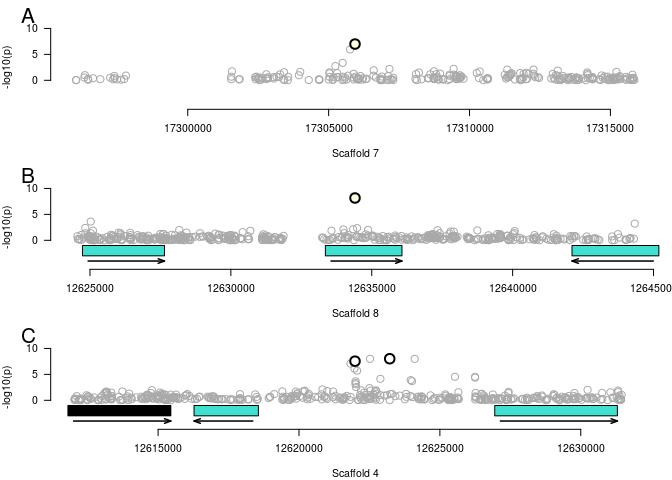
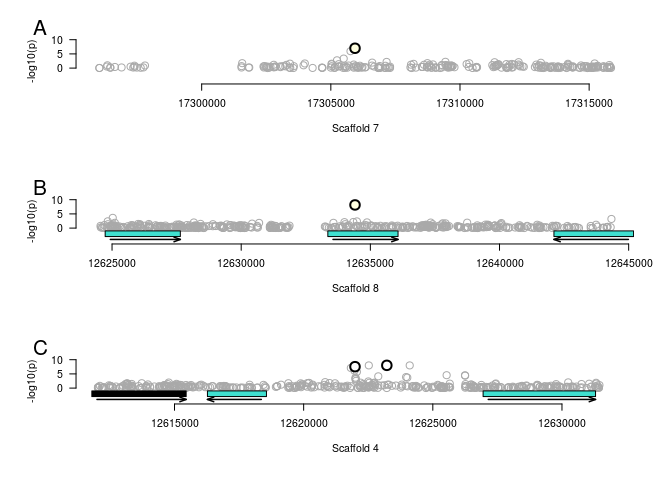
final edits

diff --git a/wgcna.md b/wgcna.md
@@ -11,30 +11,45 @@ output:
 
 ### Adjusted expression data for batch effect (collection timing)
 
+
 ```r
 myexp = read.table('data/all.med.min5', header=T)
-myexp0 = as.data.frame(t(myexp[,-1]))
-names(myexp0) = myexp$pac
+myexp0 = as.data.frame(t(myexp[,-1]))[-18806] ##also removing the "not_aligned"
+names(myexp0) = myexp$pac[-18806]
 myexp0$RNA = sapply(row.names(myexp0), function(x){substr(x,2,1000)}) ##add in a column with the RNA name
 myexp0$RNA[49] <- '157all' #slightly mismatched names
 myexp0$RNA[53] <- '161A'
 
 
 ## batch effects
-coltiming = read.table('data/coltiming', stringsAsFactors = F, header=T)
-mymer = dplyr::inner_join(coltiming, myexp0, by="RNA")
+#coltiming = read.table('data/coltiming', stringsAsFactors = F, header=T)
+coltiming = read.table('data/coltiming2.txt', stringsAsFactors = F, header=T)
+coltiming$ID = as.character(coltiming$ID)
+myexp0$ID = sapply(row.names(myexp0), function(x){substr(x,2,nchar(x)-1)}) ##add in a column with the RNA name
+
+#mymer = dplyr::inner_join(coltiming, myexp0, by="RNA")
+mymer = dplyr::inner_join(coltiming, myexp0, by="ID")
+
+##get the right IDs
+myID = read.table('data/id-list', header=T, stringsAsFactors = F)
+myID$ID = as.character(myID$DNA_short.name)
+mymer1 = dplyr::inner_join(myID, mymer, by ='ID')
 
 ## just the 146 individuals
 my146 = read.table('data/146_DNA_names_forplink', header=F, stringsAsFactors = F)
-mymer2 = dplyr::inner_join(my146, mymer, by = c('V2'='DNA_vcfname'))
+mymer2 = dplyr::inner_join(my146, mymer1, by = c('V2'='DNA_vcfname'))
 
-write.table(mymer2$V2, file="data/wgcna-files/mycb-names")
+##remove the one that's missing time info
+mymer2 = mymer2[-141,]
+
+#write.table(mymer2$V2, file="data/wgcna-files/mycb-names")
 
 # adjust for batch effects
 #mycb = ComBat(dat = t(mymer2[,-c(1:5)]), batch = mymer2$timeindex)
 
 #save(mycb, file = "data/wgcna-files/combatOutput.rda")
 ```
+
 
 ### Ran WGCNA on HPCC. Code is below:
 
@@ -108,8 +123,6 @@ write.csv(conScaled_EM, file = "../data/wgcna-files/conScaled_EM.csv")
 ```
 
 
-
-
 ###Looking at the modules
 
 ```r
@@ -167,7 +180,7 @@ plotDendroAndColors(geneTree, moduleColors, "Merged modules",
                      main = "Gene dendrogram and module colors")
 ```
 
-![](wgcna_files/figure-html/unnamed-chunk-4-1.png)<!-- -->
+![](wgcna_files/figure-html/unnamed-chunk-3-1.png)<!-- -->
 
 ```r
 ##histograms of the distributions
@@ -182,7 +195,7 @@ for (i in seq(16)) {
   }
 ```
 
-![](wgcna_files/figure-html/unnamed-chunk-4-2.png)<!-- -->
+![](wgcna_files/figure-html/unnamed-chunk-3-2.png)<!-- -->
 
 ```r
 #dev.off()
@@ -197,7 +210,7 @@ axis(2, las=2, cex.axis=1.5)
 axis(1, at = test, las=2, labels = names(moduleCounts))
 ```
 
-![](wgcna_files/figure-html/unnamed-chunk-4-3.png)<!-- -->
+![](wgcna_files/figure-html/unnamed-chunk-3-3.png)<!-- -->
 
 ```r
 moduleCounts
@@ -220,10 +233,11 @@ moduleCounts
 qn <- function(x){qqnorm(x, plot.it=FALSE)$x}
 nEigens = data.frame(apply(MEs, 2,qn))
 nEigens$id = mymer2$V2
+nEigens$DNA_short.name = as.character(mymer2$DNA_short.name)
 
 
 ##Correlated with collection timing?
-tmer = dplyr::inner_join(nEigens, coltiming, by = c('id' = 'DNA_vcfname'))
+tmer = dplyr::inner_join(nEigens, coltiming, by = c('DNA_short.name'="ID"))
 par(mfrow=c(4,4), mar = c(5,3,1,1))
 for (i in seq(16)) {
    plot(tmer$timeindex,tmer[,i], main="", ylab = "", xlab = "timing", bg = cols[i], pch = 21,yaxt="n", xaxt = "n", bty="n")
@@ -235,7 +249,7 @@ for (i in seq(16)) {
   }
 ```
 
-![](wgcna_files/figure-html/unnamed-chunk-4-4.png)<!-- -->
+![](wgcna_files/figure-html/unnamed-chunk-3-4.png)<!-- -->
 
 ```r
 sapply(1:16, function(x){
@@ -256,17 +270,17 @@ phenos = read.table('data/phenotypes_NA.txt', header=T, stringsAsFactors = F)
 pmer = dplyr::left_join(tmer, phenos, by = c('id'='IID'))
 
 ##bolting
-par(mfrow=c(4,4), mar = c(5,3,1,1))
+par(mfrow=c(4,4), mar = c(4,4,1,1))
 for (i in seq(16)) {
-   plot(pmer[,i], pmer$bolt, main="", ylab = "bolt", xlab = "module expression", bg = cols[i], pch = 21,yaxt="n", xaxt = "n", bty="n")
+   plot(pmer[,i], pmer$bolt, main="", ylab = "days to bolt", xlab = paste(cols[i],"expression"), bg = cols[i], pch = 21,yaxt="n", xaxt = "n", bty="n", ylim = c(30,75))
   myl = lm(pmer$bolt ~ pmer[,i])
-  if(summary(myl)$coefficients[2,4]<0.05/16){abline(myl)}
+  if(summary(myl)$coefficients[2,4]<0.05/16){abline(myl, lwd=2)}
     axis(1)
   axis(2)
   }
 ```
 
-![](wgcna_files/figure-html/unnamed-chunk-4-5.png)<!-- -->
+![](wgcna_files/figure-html/unnamed-chunk-3-5.png)<!-- -->
 
 ```r
 par(mfrow=c(4,4), mar = c(5,3,1,1))
@@ -279,7 +293,7 @@ for (i in seq(16)) {
 }
 ```
 
-![](wgcna_files/figure-html/unnamed-chunk-4-6.png)<!-- -->
+![](wgcna_files/figure-html/unnamed-chunk-3-6.png)<!-- -->
 
 
 

diff --git a/coexpression-eqtls.md b/coexpression-eqtls.md
@@ -22,8 +22,6 @@ plink --noweb --file ../data/gemma/tags146 --make-bed --out ../data/gemma/tags14
 ```
 
 
-
-
 Make the fam file for gemma:
 
 ```r
@@ -73,7 +71,7 @@ write.table(sigresults, file = args[2], row.names=F, quote=F)
 
 
 
-Look at the results
+### Look at the results
 
 ```r
 allhitslist = sapply(1:16, function(i){
@@ -89,20 +87,18 @@ sighits
 ```
 
 ```
-##   chr                  rs       ps n_miss allele1 allele0    af   logl_H1
-## 1   7 scaffold_7:17305936 17305936      0       A       G 0.093 -185.0856
-## 2   8 scaffold_8:12634406 12634406      0       C       T 0.317 -182.4722
-## 3   4 scaffold_4:12621988 12621988      0       C       T 0.066 -183.9238
-## 4   4 scaffold_4:12623220 12623220      0       A       T 0.052 -182.8667
-##   l_mle        p_lrt        fdr module
-## 1 1e+05 1.025370e-07 0.09574403      9
-## 2 1e+05 6.937162e-09 0.01295516      9
-## 3 1e+05 2.858041e-08 0.02668699     16
-## 4 1e+05 9.623431e-09 0.01797178     16
+##   chr                  rs       ps n_miss allele1 allele0    af   logl_H1 l_mle
+## 1   7 scaffold_7:17305936 17305936      0       A       G 0.093 -185.0856 1e+05
+## 2   8 scaffold_8:12634406 12634406      0       C       T 0.317 -182.4722 1e+05
+## 3   4 scaffold_4:12621988 12621988      0       C       T 0.066 -183.9238 1e+05
+## 4   4 scaffold_4:12623220 12623220      0       A       T 0.052 -182.8667 1e+05
+##          p_lrt        fdr module
+## 1 1.025370e-07 0.09574403      9
+## 2 6.937162e-09 0.01295516      9
+## 3 2.858041e-08 0.02668699     16
+## 4 9.623431e-09 0.01797178     16
 ```
 
-
-Where are the sighnificant hits? Make manhattan plots.
 
 
 First need to pull out the regions around hits from the gemma output files
@@ -152,15 +148,19 @@ plotsnp <- function(y){
   
   #   sameScaf <- mods[mods$V1 == paste("scaffold_",as.character(x[[2]]),sep=""),]
   if (y==3){points(sighits$ps[4], -log10(sighits$p_lrt[4]), pch=21, col = 'black',bg = moduleIndex[x$module], cex=2, lwd=2)}
-  mtext(abc[y], side=3, adj=-0.05, cex=1.3)
+  mtext(abc[y], side=3, adj=-0.08, cex=1.3)
   
   }
 
-par(mfrow=c(3,1), mar=c(4,4,2,1))
+par(mfrow=c(3,1), mar=c(6,6,3,3))
 test = sapply(1:3, plotsnp)
 ```
 
 ![](coexpression-eqtls_files/figure-html/unnamed-chunk-9-1.png)<!-- -->
+
+
+
+
 
 
 Are any of them also in the all-by-all analysis?
@@ -183,8 +183,8 @@ merge2 = dplyr::left_join(myoverl[[2]], modulelocs, by = c('gene'='pac')) ##look
 ```
 
 ```
-## Warning: Column `gene`/`pac` joining factor and character vector, coercing
-## into character vector
+## Warning: Column `gene`/`pac` joining factor and character vector, coercing into
+## character vector
 ```
 
 ```r
@@ -250,8 +250,8 @@ merge3 = dplyr::left_join(myoverl[[3]], modulelocs, by = c('gene'='pac')) ##look
 ```
 
 ```
-## Warning: Column `gene`/`pac` joining factor and character vector, coercing
-## into character vector
+## Warning: Column `gene`/`pac` joining factor and character vector, coercing into
+## character vector
 ```
 
 ```r
@@ -284,8 +284,8 @@ merge4 = dplyr::left_join(myoverl[[4]], modulelocs, by = c('gene'='pac')) ##look
 ```
 
 ```
-## Warning: Column `gene`/`pac` joining factor and character vector, coercing
-## into character vector
+## Warning: Column `gene`/`pac` joining factor and character vector, coercing into
+## character vector
 ```
 
 ```r
@@ -505,16 +505,5 @@ eqtlGene
 ## 1 ID=PAC:20912595;Name=Carubv10025970m;pacid=20912595;Parent=Carubv10025970m.g;
 ```
 
-PTHR10579
-PANTHER
-CALCIUM-ACTIVATED CHLORIDE CHANNEL REGULATOR
-PTHR10579:SF59
-PANTHER
-C3H4 TYPE ZINC FINGER PROTEIN-RELATED
-
-	
-AT5G65683.1
-
-Title: The WAVY GROWTH 3 E3 ligase family controls the gravitropic response in Arabidopsis roots
 
 
